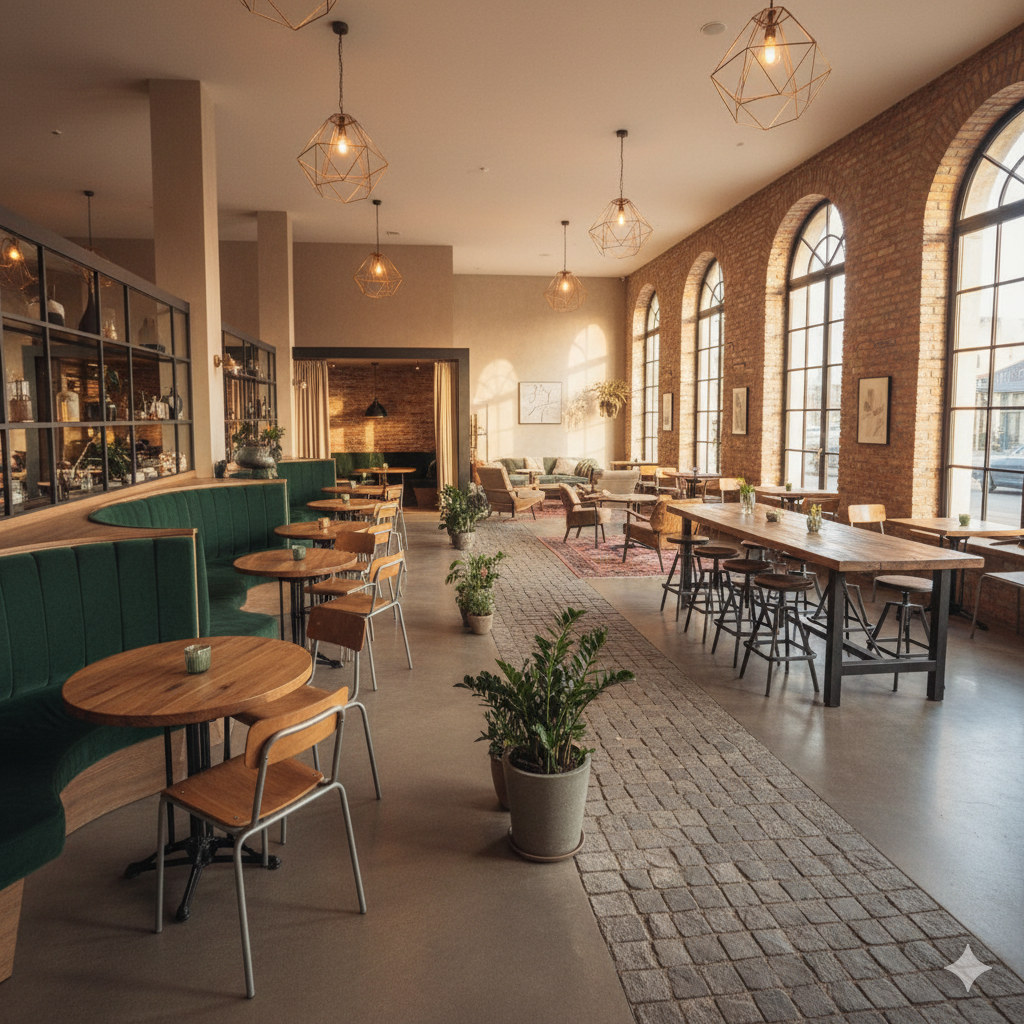
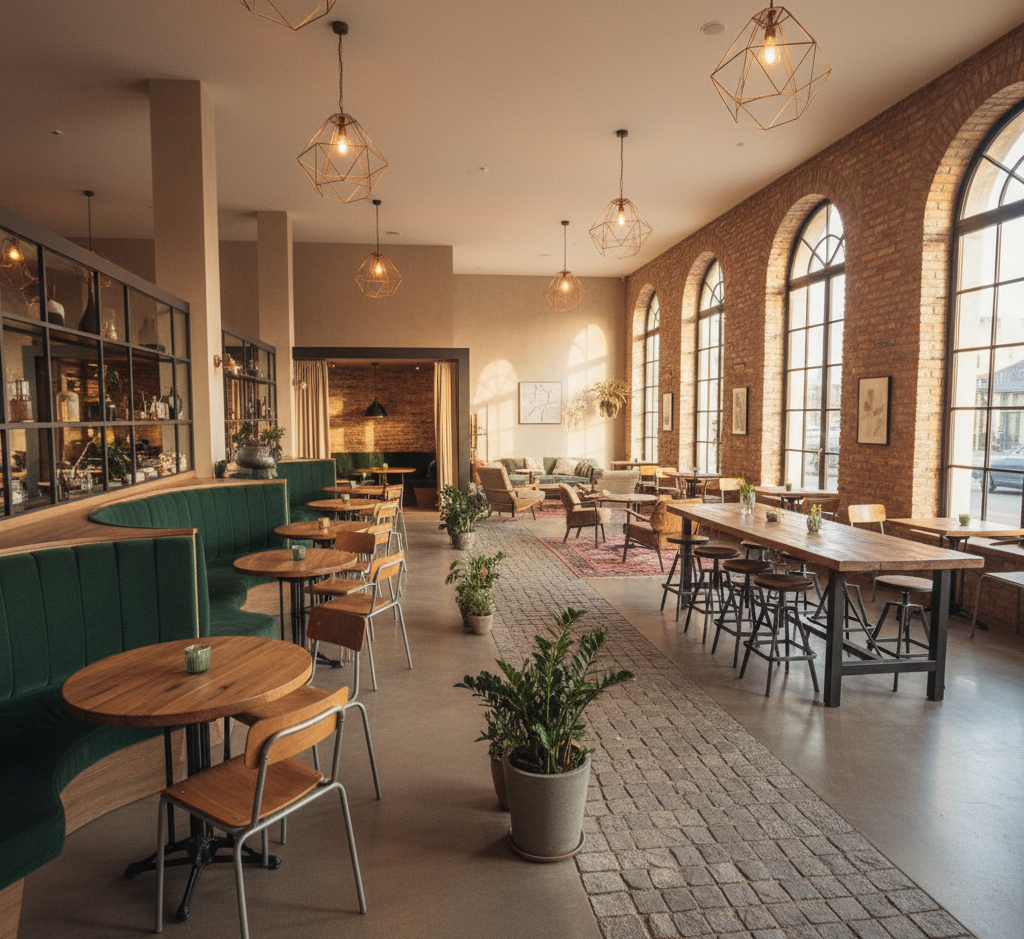
fix: 사진등록화면 QA 반영 (#89)
* fix: 업로드 가이드 이미지에서 생성형 AI 워터마크 제거

* feat: 사진 미선택 시 CTA 문구 변경

diff --git a/src/app/label/upload/_components/upload-container.tsx b/src/app/label/upload/_components/upload-container.tsx
@@ -150,7 +150,7 @@ const UploadContainer = ({ entryType }: UploadContainerProps) => {
             disabled={!selectedImage}
             onClick={() => setIsOpen(true)}
           >
-            1분 만에 등록하기
+            {selectedImage ? '1분 만에 등록하기' : '사진을 등록해 주세요'}
           </BottomCTA.Button>
         </BottomCTA>
       </div>

diff --git a/src/app/label/upload/_components/upload-guide.tsx b/src/app/label/upload/_components/upload-guide.tsx
@@ -51,8 +51,8 @@ const UploadGuide = () => {
               src={src}
               alt={`가이드 이미지 ${index + 1}`}
               className='h-full w-full rounded-2xl object-contain'
-              width={280}
-              height={84}
+              width={1024}
+              height={939}
             />
           </li>
         ))}
